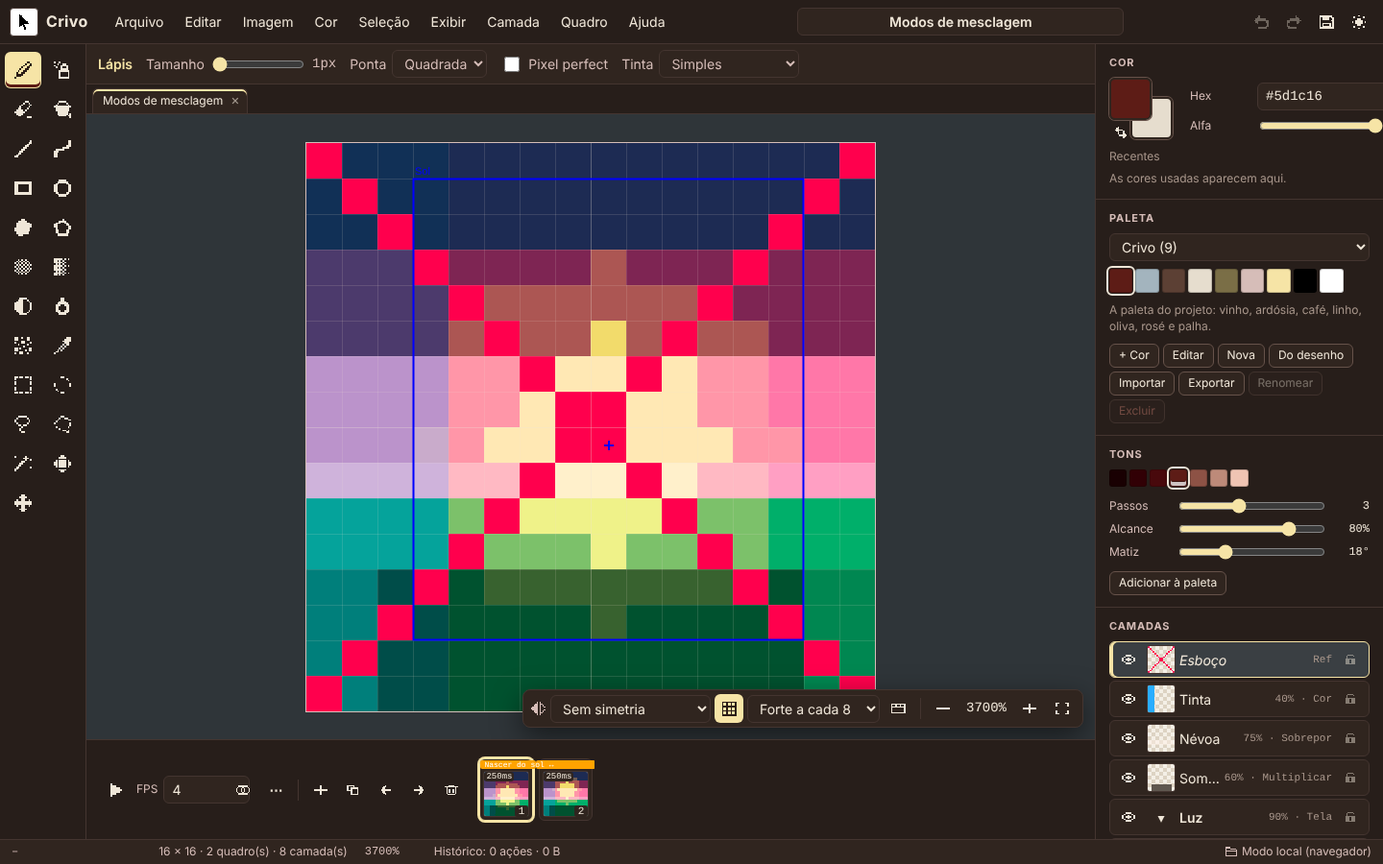
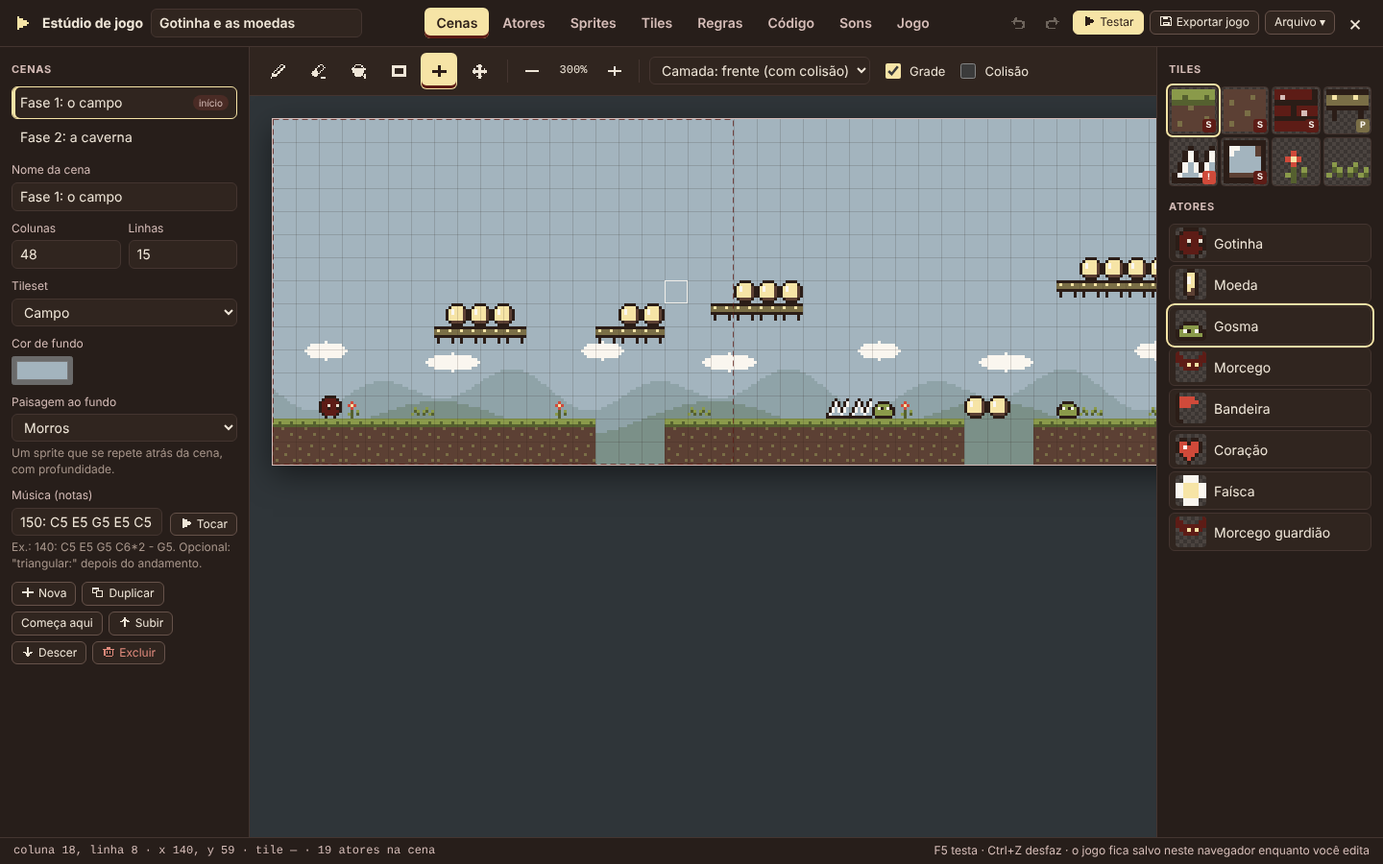
Portfólio 1.40.0

diff --git a/js/destaques.js b/js/destaques.js
@@ -1,34 +1,36 @@
 const DESTAQUES = [
 	{
 		titulo: "Crivo",
-		versao: "2.2.0",
-		frase: "Um editor de pixel art que trata a imagem como ela é: uma matriz de pixels RGBA.",
+		versao: "2.4.0",
+		frase: "Um editor de pixel art que trata a imagem como ela é, uma matriz de pixels RGBA, com um estúdio de jogos 2D embutido.",
 		online: "https://ravelroot.github.io/Pixel-Art-Matrix-Editor/",
 		endereco: "ravelroot.github.io/Pixel-Art-Matrix-Editor",
 		capa: {
-			claro: "assets/destaques/crivo/camadas-grupos.webp",
+			claro: "assets/destaques/crivo/jogo-cena.webp",
 			escuro: "assets/destaques/crivo/escuro.webp",
-			legenda: "O exemplo Modos de mesclagem: um nascer do sol em 16 × 16 com um grupo, camadas em multiplicar, tela e sobrepor e uma camada de referência, que aparece no editor e fica fora das exportações."
+			legenda: "O Estúdio de jogo com o exemplo Gotinha e as moedas: a fase 1 montada com tiles de 8 × 8 sobre morros em parallax, a moldura tracejada do tamanho da tela e os atores prontos para entrar na cena."
 		},
 		numeros: [
 			{ valor: "23", rotulo: "ferramentas de desenho" },
-			{ valor: "19", rotulo: "modos de mistura" },
-			{ valor: "263", rotulo: "testes, todos passando" },
-			{ valor: "3", rotulo: "linguagens, os mesmos pixels" }
+			{ valor: "12", rotulo: "comportamentos de jogo prontos" },
+			{ valor: "301", rotulo: "testes, todos passando" },
+			{ valor: "3", rotulo: "linguagens de código no motor" }
 		],
 		historia: [
 			"A premissa do Crivo é que o editor mostre exatamente o que o jogo vai receber. A imagem não é tratada como uma pintura, e sim como o que ela é: uma matriz de pixels RGBA, em que cada traço altera números que podem sair do editor como PNG, GIF, sprite sheet ou código-fonte em JSON, CSV, JavaScript, Python, C e Java.",
-			"Em volta dessa matriz está um editor completo: 23 ferramentas, seleção por retângulo, elipse, laço e varinha mágica, camadas em grupos com 19 modos de mistura, animação quadro a quadro com tags e cels vinculados, tilemaps, slices e arquivos .ase com camadas. As paletas clássicas já vêm prontas: Game Boy, NES, Pico-8, CGA, Commodore 64 e 1 bit.",
-			"E ele roda onde for mais prático: como Crivo.exe no Windows, sem instalar nada; como servidor Django com PostgreSQL, API e histórico de versões; ou num único Crivo.html que abre com dois cliques, sem internet. A mesma versão está publicada no GitHub Pages."
+			"Em volta dessa matriz está um editor completo: 23 ferramentas, seleção por retângulo, elipse, laço e varinha mágica, camadas em grupos com 19 modos de mistura, animação quadro a quadro com tags e cels vinculados, tilemaps, slices e arquivos .ase com camadas. As paletas clássicas já vêm prontas (Game Boy, NES, Pico-8, CGA, Commodore 64 e 1 bit), e um caderno folheia os projetos página por página.",
+			"Desde a 2.4.0, os mesmos pixels viram jogo: o Estúdio de jogo monta fases com tiles, atores com 12 comportamentos prontos ou com eventos no estilo do GameMaker, regras, sons de 8 bits e código em Crivo Script, C++ ou Lua, com tiles de 8 a 1024 px. O jogo sai numa única página HTML, e o Crivo roda como Crivo.exe no Windows, como servidor Django com PostgreSQL ou num Crivo.html que abre sem internet."
 		],
 		pilha: [
 			{ nome: "Editor", itens: ["JavaScript", "Canvas 2D", "HTML5", "CSS3"] },
+			{ nome: "Motor de jogo", itens: ["Web Audio API", "Gamepad API", "Interpretador próprio", "CSP com SHA-256"] },
 			{ nome: "Servidor e API", itens: ["Python 3.13", "Django 6.1", "Gunicorn", "PostgreSQL 17", "SQLite"] },
 			{ nome: "Desktop e linha de comando", itens: ["Go 1.24", "WebView2", "Java 21"] },
 			{ nome: "Qualidade e entrega", itens: ["Node Test Runner", "Playwright", "Ruff", "Bandit", "Docker", "GitHub Actions"] }
 		],
 		galeria: [
 			{ imagem: "assets/destaques/crivo/editor.webp", miniatura: "assets/destaques/crivo/mini/editor.webp", legenda: "A poção de exemplo aberta: três camadas, quatro quadros na linha do tempo e a paleta Crivo ao lado." },
+			{ imagem: "assets/destaques/crivo/camadas-grupos.webp", miniatura: "assets/destaques/crivo/mini/camadas-grupos.webp", legenda: "O exemplo Modos de mesclagem: um nascer do sol em 16 × 16 com um grupo, camadas em multiplicar, tela e sobrepor e uma camada de referência, que aparece no editor e fica fora das exportações." },
 			{ imagem: "assets/destaques/crivo/pontilhado.webp", miniatura: "assets/destaques/crivo/mini/pontilhado.webp", legenda: "Céu feito com o degradê pontilhado de Bayer e nuvens com o pincel de pontilhado. O padrão é fixo na matriz, então traços vizinhos se encaixam sem emendas." },
 			{ imagem: "assets/destaques/crivo/simetria.webp", miniatura: "assets/destaques/crivo/mini/simetria.webp", legenda: "Simetria horizontal e vertical: cada traço vira quatro, com os dois eixos tracejados na tela." },
 			{ imagem: "assets/destaques/crivo/ladrilho.webp", miniatura: "assets/destaques/crivo/mini/ladrilho.webp", legenda: "Modo ladrilho, no tema escuro: o tile de tijolos repetido 3 × 3 para conferir as emendas da textura." },
@@ -36,7 +38,12 @@ const DESTAQUES = [
 			{ imagem: "assets/destaques/crivo/editor-paleta.webp", miniatura: "assets/destaques/crivo/mini/editor-paleta.webp", legenda: "Editor de paleta com seletor HSV, rampa entre duas cores e ordenação por matiz, luminosidade ou saturação." },
 			{ imagem: "assets/destaques/crivo/exportar-dados.webp", miniatura: "assets/destaques/crivo/mini/exportar-dados.webp", legenda: "A matriz exportada como dado: o índice da paleta de cada pixel, pronto para entrar no código do jogo." },
 			{ imagem: "assets/destaques/crivo/sprite-sheet.webp", miniatura: "assets/destaques/crivo/mini/sprite-sheet.webp", legenda: "Sprite sheet dos quatro quadros, com o JSON das posições no formato que Phaser, PixiJS e Godot leem." },
-			{ imagem: "assets/destaques/crivo/abas.webp", miniatura: "assets/destaques/crivo/mini/abas.webp", legenda: "Vários projetos abertos em abas e a janela de pré-visualização (F7), com a própria reprodução." }
+			{ imagem: "assets/destaques/crivo/abas.webp", miniatura: "assets/destaques/crivo/mini/abas.webp", legenda: "Vários projetos abertos em abas e a janela de pré-visualização (F7), com a própria reprodução." },
+			{ imagem: "assets/destaques/crivo/caderno.webp", miniatura: "assets/destaques/crivo/mini/caderno.webp", legenda: "O caderno (F8) com os projetos abertos: uma pixel art por página, em tamanho inteiro, com nome, tamanho e quadros, e as folhas virando em 3D." },
+			{ imagem: "assets/destaques/crivo/jogo-terminal.webp", miniatura: "assets/destaques/crivo/mini/jogo-terminal.webp", legenda: "O jogo rodando com a depuração (F3): pelo terminal (F4), os pontos foram para 99 e surgiram moedas novas, e a regra das 20 moedas deu uma vida extra." },
+			{ imagem: "assets/destaques/crivo/jogo-eventos.webp", miniatura: "assets/destaques/crivo/mini/jogo-eventos.webp", legenda: "Eventos no estilo do GameMaker: o Morcego guardião é um objeto livre, sem comportamento pronto. Um alarme o faz voar até o jogador, e duas faíscas o derrubam." },
+			{ imagem: "assets/destaques/crivo/jogo-codigo.webp", miniatura: "assets/destaques/crivo/mini/jogo-codigo.webp", legenda: "Um script em C++ e o terminal em Lua: a função chuva_de_moedas, escrita em Lua, chama bonus_por_vida, escrita em C++." },
+			{ imagem: "assets/destaques/crivo/jogo-sons.webp", miniatura: "assets/destaques/crivo/mini/jogo-sons.webp", legenda: "Sons de 8 bits sintetizados na hora, sem arquivos de áudio: cinco ondas, sete modelos prontos, botão Aleatório e o desenho da onda." }
 		],
 		porDentro: [
 			{
@@ -63,6 +70,15 @@ const DESTAQUES = [
 			{
 				titulo: "Mesmos pixels em três linguagens",
 				texto: "O editor (JavaScript), o servidor (Python) e a linha de comando (Java) compõem grupos e os 19 modos de mistura cada um do seu lado. Um teste de paridade monta 30 documentos aleatórios e exige os mesmos pixels nos três."
+			},
+			{
+				titulo: "Física em passos fixos",
+				texto: "O jogo avança em passos de 1/60 s, com um acumulador que absorve a variação do monitor: o mesmo pulo tem a mesma altura a 60 ou a 144 Hz. Cada movimento anda em fatias menores que um tile, então nada atravessa parede, e a plataforma de mão única só segura quem vem de cima. O pulo ainda perdoa: 100 ms de coyote time depois da borda e 120 ms de buffer para o botão apertado antes de tocar o chão."
+			},
+			{
+				titulo: "Três linguagens, um interpretador",
+				texto: "Crivo Script, C++ e Lua têm cada uma o seu leitor e o seu analisador, mas viram a mesma árvore e rodam no mesmo interpretador, escrito à mão e sem eval, o que mantém a Content-Security-Policy do editor e do jogo exportado. Uma função em Lua chama outra escrita em C++, laços sem fim param em 200 mil passos e a recursão em 64 níveis, sempre com o erro na linha certa.",
+				codigo: "C++   │ int bonus(int v) { return v * 10; }\nLua   │ function chuva(n) return bonus(n) end\nCrivo │ chuva(3)   → 30"
 			}
 		],
 		arquitetura: [
@@ -70,6 +86,10 @@ const DESTAQUES = [
 			"  └─► Crivo.html embutido · janela Salvar como nativa · F11",
 			"",
 			"Navegador  (JavaScript + Canvas 2D)",
+			"  ├─► Estúdio de jogo ........... .crivojogo",
+			"  │     ├─► física em passos de 1/60 s · som em Web Audio",
+			"  │     ├─► Crivo Script · C++ · Lua ─► um interpretador",
+			"  │     └─► jogo exportado em .html, com CSP própria",
 			"  ├─► IndexedDB ................. sem servidor",
 			"  └─► HTTP/JSON + CSRF",
 			"        └─► Django 6.1 + Gunicorn",
@@ -80,10 +100,11 @@ const DESTAQUES = [
 			"  └─► lê .crivo ─► PNG · sprite sheet · classe Java"
 		].join("\n"),
 		testes: [
-			{ suite: "Núcleo JavaScript", detalhe: "Geometria, flood fill, RLE, histórico, GIF, .ase e APNG de ida e volta", resultado: "107 de 107" },
+			{ suite: "Núcleo JavaScript", detalhe: "Geometria, flood fill, RLE, histórico, GIF, .ase, APNG, motor de jogo e as três linguagens", resultado: "135 de 135" },
 			{ suite: "API Django", detalhe: "Revisões, conflitos, exportação e o conjunto de segurança", resultado: "72 de 72" },
 			{ suite: "Ferramenta Java", detalhe: "Leitura do .crivo, PNG, sprite sheet e classe compilada em memória", resultado: "36 de 36" },
-			{ suite: "Interface no Chromium", detalhe: "Playwright contra o Django e o Crivo.html direto do disco", resultado: "48 de 48" },
+			{ suite: "Interface no Chromium", detalhe: "Playwright contra o Django e o Crivo.html direto do disco, com o estúdio de jogo", resultado: "58 de 58" },
+			{ suite: "Jogo exportado", detalhe: "A página .html aberta e jogada no Chromium, com a própria CSP e sem acesso à rede", resultado: "0 erros" },
 			{ suite: "Paridade de composição", detalhe: "30 documentos aleatórios em JavaScript, Python e Java", resultado: "Mesmos pixels" },
 			{ suite: "Ruff e Bandit", detalhe: "Estilo, bugs prováveis e padrões inseguros no Python", resultado: "0 problemas" },
 			{ suite: "Crivo.exe gerado de novo", detalhe: "Build reproduzível, comparado com o do repositório", resultado: "Idêntico" }

diff --git a/index.html b/index.html
@@ -7,14 +7,14 @@
 	<meta name="description" content="Erik Pimenta, Engenheiro de Software no Rio de Janeiro. Sistemas completos, do banco de dados à interface, sem me prender a uma linguagem ou stack, com testes, manual técnico e código aberto.">
 	<meta name="author" content="Erik Pimenta">
 	<meta name="theme-color" content="#0c0a09">
-	<link rel="canonical" href="https://ravel-os.github.io/">
+	<link rel="canonical" href="https://ravelroot.github.io/">
 	<meta property="og:type" content="profile">
 	<meta property="og:locale" content="pt_BR">
 	<meta property="og:site_name" content="Erik Pimenta">
-	<meta property="og:url" content="https://ravel-os.github.io/">
+	<meta property="og:url" content="https://ravelroot.github.io/">
 	<meta property="og:title" content="Erik Pimenta | Engenheiro de Software">
 	<meta property="og:description" content="Sistemas completos, do banco de dados à interface, sem me prender a uma linguagem ou stack, com testes, manual técnico e código aberto.">
-	<meta property="og:image" content="https://ravel-os.github.io/assets/compartilhar.png">
+	<meta property="og:image" content="https://ravelroot.github.io/assets/compartilhar.png">
 	<meta property="og:image:width" content="1200">
 	<meta property="og:image:height" content="630">
 	<meta property="og:image:alt" content="Erik Pimenta, Engenheiro de Software, com um terminal listando as áreas em que atua">
@@ -23,7 +23,7 @@
 	<meta name="twitter:card" content="summary_large_image">
 	<meta name="twitter:title" content="Erik Pimenta | Engenheiro de Software">
 	<meta name="twitter:description" content="Sistemas completos, do banco de dados à interface, com testes, manual técnico e código aberto.">
-	<meta name="twitter:image" content="https://ravel-os.github.io/assets/compartilhar.png">
+	<meta name="twitter:image" content="https://ravelroot.github.io/assets/compartilhar.png">
 	<link rel="icon" type="image/png" href="assets/favicon.png?v=2">
 	<link rel="preconnect" href="https://fonts.googleapis.com">
 	<link rel="preconnect" href="https://fonts.gstatic.com" crossorigin>
@@ -41,8 +41,8 @@
 		"name": "Erik Pimenta",
 		"alternateName": "ravelroot",
 		"jobTitle": "Engenheiro de Software",
-		"url": "https://ravel-os.github.io/",
-		"image": "https://ravel-os.github.io/assets/compartilhar.png",
+		"url": "https://ravelroot.github.io/",
+		"image": "https://ravelroot.github.io/assets/compartilhar.png",
 		"sameAs": ["https://github.com/ravelroot"],
 		"address": { "@type": "PostalAddress", "addressLocality": "Rio de Janeiro", "addressCountry": "BR" },
 		"knowsAbout": ["Java", "Spring Boot", "Python", "Django", "FastAPI", "C#", ".NET", "JavaScript", "TypeScript", "React", "PostgreSQL", "Docker", "Microsserviços", "Sistemas distribuídos", "RAG"]
@@ -124,7 +124,7 @@
 						<p class="terminal-titulo">root@ravel:~$</p>
 					</div>
 					<div class="terminal-corpo">
-						<p class="linha">Ravel OS [Version 1.39.0]</p>
+						<p class="linha">Ravel OS [Version 1.40.0]</p>
 						<p class="linha">(c) Erik Pimenta. All rights reserved.</p>
 						<p class="linha linha-comando"><span class="caminho">$</span>ravel --info</p>
 						<p class="linha">Confiabilidade, escalabilidade e qualidade de produção.</p>
@@ -150,7 +150,7 @@
 				</div>
 
 				<div id="painel-destaques" class="painel" role="tabpanel" aria-labelledby="aba-destaques">
-					<p class="secao-descricao">Os seis projetos mais completos do portfólio, em detalhe: o Crivo e o Grafo, editores visuais escritos do zero que rodam no navegador, no Windows e em servidor; o Nexo, uma plataforma de agentes de IA que respondem citando a fonte; o Talos, central de serviços e inventário de TI para desktop; o Bento, um painel administrativo com tempo real; e o Turno, um motor de tarefas distribuídas em que vários workers dividem a mesma fila. Abaixo, as telas, as decisões de engenharia e os números dos testes de cada um.</p>
+					<p class="secao-descricao">Os seis projetos mais completos do portfólio, em detalhe: o Crivo, de pixel art e jogos 2D, e o Grafo, de design e diagramas, editores escritos do zero que rodam no navegador, no Windows e em servidor; o Nexo, uma plataforma de agentes de IA que respondem citando a fonte; o Talos, central de serviços e inventário de TI para desktop; o Bento, um painel administrativo com tempo real; e o Turno, um motor de tarefas distribuídas em que vários workers dividem a mesma fila. Abaixo, as telas, as decisões de engenharia e os números dos testes de cada um.</p>
 					<div id="destaques" class="destaques"></div>
 				</div>
 
@@ -280,12 +280,12 @@
 		<p id="aviso" class="so-leitor" role="status" aria-live="polite"></p>
 	</div>
 
-	<script src="js/projetos.js?v=20"></script>
+	<script src="js/projetos.js?v=21"></script>
 	<script src="js/habilidades.js?v=5"></script>
 	<script src="js/documentacao.js?v=8"></script>
 	<script src="js/atividade.js?v=8"></script>
 	<script src="js/notas.js?v=5"></script>
-	<script src="js/destaques.js?v=4"></script>
+	<script src="js/destaques.js?v=5"></script>
 	<script src="js/contato.js?v=1"></script>
 	<script src="js/main.js?v=19"></script>
 </body>

diff --git a/js/projetos.js b/js/projetos.js
@@ -68,11 +68,11 @@ const PROJETOS = [
 	},
 	{
 		titulo: "Crivo",
-		categoria: "Editor de pixel art",
+		categoria: "Pixel art e jogos 2D",
 		icone: "assets/projetos/crivo.png",
-		descricao: "Crivo é um editor de pixel art no navegador em JavaScript puro: matriz RGBA via ImageData, balde por varredura, Bresenham e elipse de ponto médio, camadas, animação, simetria e histórico ilimitado com diffs e RLE. Paletas Game Boy, NES, Pico-8 e CGA, tons em OKLCH, PNG, sprite sheet e matrizes JSON/CSV/JS/Python. API Django e CLI Java.",
+		descricao: "Crivo é um editor de pixel art e engine de jogos 2D no navegador, em JavaScript puro. Matriz RGBA, camadas com modos de mistura, animação, histórico ilimitado e exportação para PNG, GIF, .ase e sprite sheets. Estúdio de jogo com cenas, atores, eventos, física e scripting em C++, Lua e Crivo Script, exportado em HTML. Desktop, API Django e CLI Java.",
 		link: "https://github.com/ravelroot/Pixel-Art-Matrix-Editor",
-		tecnologias: ["Javascript", "Canvas 2D", "Python", "Django", "PostgreSQL", "Java", "Docker"]
+		tecnologias: ["Javascript", "Canvas 2D", "Web Audio", "Python", "Django", "PostgreSQL", "Java", "Docker"]
 	},
 	{
 		titulo: "Lume",

diff --git a/js/main.js b/js/main.js
@@ -1122,7 +1122,7 @@ function alternarAbas() {
 	} catch (erro) {}
 	marcarBordasDasAbas(lista);
 
-	// Um link com o nome da aba (por exemplo, ravel-os.github.io/#contato) abre direto nela.
+	// Um link com o nome da aba (por exemplo, ravelroot.github.io/#contato) abre direto nela.
 	// O endereço volta ao normal em seguida, para a próxima visita abrir em Destaques.
 	const abrirPeloEndereco = () => {
 		const pedida = document.getElementById(`aba-${decodeURIComponent(location.hash.slice(1))}`);

diff --git a/js/atividade.js b/js/atividade.js
@@ -17,7 +17,7 @@ const ATIVIDADE = {
 	anoInicial: 2016,
 	reposRecentes: 5,
 	linguagensVisiveis: 8,
-	reposOcultos: ["ravelroot.github.io", "ravel-os.github.io", "ravelroot"]
+	reposOcultos: ["ravelroot.github.io", "ravelroot"]
 };
 
 const API_GITHUB = "https://api.github.com";

diff --git a/README.md b/README.md
@@ -14,7 +14,7 @@ HTML5 · CSS3 · JavaScript (ES6+) · API do GitHub · Responsivo · Zero depend
 </p>
 
 <p align="center">
-  <a href="https://ravel-os.github.io"><b>ravel-os.github.io</b></a>
+  <a href="https://ravelroot.github.io"><b>ravelroot.github.io</b></a>
 </p>
 
 ---
@@ -26,7 +26,7 @@ HTML5 · CSS3 · JavaScript (ES6+) · API do GitHub · Responsivo · Zero depend
 <p align="center"><b>Aba Destaques</b></p>
 
 <p align="center">
-  <img src="assets/preview-portfolio-destaques.png?v=5" alt="Prévia da aba Destaques: atalhos dos seis projetos, cabeçalho do Crivo e a tela principal numa janela">
+  <img src="assets/preview-portfolio-destaques.png?v=6" alt="Prévia da aba Destaques: atalhos dos seis projetos, cabeçalho do Crivo e a tela principal numa janela">
 </p>
 
 <p align="center"><b>Tema claro, na aba Habilidades</b></p>
@@ -52,10 +52,10 @@ HTML5 · CSS3 · JavaScript (ES6+) · API do GitHub · Responsivo · Zero depend
 - **Topo fixo** com o ícone de computador e o nome **ravel** digitado letra por letra e cursor piscando (um clique volta ao início), que ganha fundo desfocado ao rolar a página. À direita ficam o atalho para o **GitHub**, o botão **Contato**, que abre a aba Contato de qualquer ponto da página, e o botão de tema.
 - **Tema claro e escuro**: o botão redondo no canto superior direito (☀ sol / ☾ lua) troca a página entre o tema escuro (padrão) e o claro, inspirado em **desenho técnico de engenharia**: fundo de papel com quadriculado bem fraco, texto e destaques em grafite, a mesma linguagem dos diagramas dos PDFs. A paleta é Papel `#E8ECEA` (fundo, etiquetas e barra do terminal), Folha `#F6F8F7` (cartões e corpo do terminal), Linha `#B9C4C2` (bordas), Ardósia `#46535A` (textos de apoio, abas fechadas e botões ao passar o mouse) e Grafite `#20282D` (títulos, textos, botões, aba aberta, cursor do título, prompt do terminal, quadriculado, traço dos diagramas na aba Documentação). Os três botões coloridos do terminal continuam como no tema escuro. O tema escuro usa o mesmo quadriculado de engenharia no fundo, em linhas brancas bem fracas. A escolha fica salva no navegador e volta na próxima visita, sem piscar o tema errado ao carregar.
 - **Apresentação** pensada para quem está contratando: o selo **Disponível para novas oportunidades** (com um pulso curto no ponto verde ao carregar), o nome em tamanho grande, o cargo (*Engenheiro de Software*), um parágrafo sobre o que eu construo, os botões **Ver projetos** e **Entrar em contato** e, embaixo, o GitHub, o e-mail (um clique copia o endereço e o botão mostra *E-mail copiado*) e a localização.
-- **Terminal `root@ravel:~$`** com o `ravel --info` do Ravel OS: o que priorizo e as áreas em que atuo, com base nos meus projetos. A primeira linha mostra a versão atual do portfólio (*Ravel OS [Version 1.39.0]*), a mesma do arquivo `VERSION`.
+- **Terminal `root@ravel:~$`** com o `ravel --info` do Ravel OS: o que priorizo e as áreas em que atuo, com base nos meus projetos. A primeira linha mostra a versão atual do portfólio (*Ravel OS [Version 1.40.0]*), a mesma do arquivo `VERSION`.
 - **Sete abas: Destaques, Projetos, Habilidades, Atividade, Notas, Documentação e Contato**: as seções ficam em abas separadas na mesma página, com sublinhado animado na aba ativa. Ao rolar a página, a fileira de abas **fica presa logo abaixo do topo**, com o mesmo fundo desfocado, e trocar de aba lá embaixo leva ao começo da nova aba. Dá para trocar com o mouse ou pelas setas do teclado, e a página sempre abre na aba Destaques, a não ser que o link já aponte para outra: `ravelroot.github.io/#contato`, `#destaques`, `#habilidades` e assim por diante abrem direto na aba (o endereço volta ao normal em seguida). No celular, a fileira de abas rola para o lado, a aba ativa sempre fica à vista e a borda some aos poucos do lado em que ainda há abas.
   - **Projetos** em cartões com **vitrine no estilo do terminal**: o caminho do repositório no GitHub, a linguagem principal e o ícone do projeto em tamanho grande sobre um pontilhado. Abaixo vêm a categoria em destaque (por exemplo, *Pagamentos e checkout*), o nome, a descrição, as etiquetas de tecnologias e os botões **Código no GitHub** (repositório) e **Manual técnico** (PDF, nos projetos que têm). São meus principais repositórios públicos, de pagamentos e microsserviços a um banco de dados em C++. Os projetos que também estão na aba Destaques (Crivo, Grafo, Nexo, Talos, Bento e Turno) trazem, ao lado da categoria, a etiqueta **Estudo de caso**, que leva direto ao projeto lá; o Crivo e o Grafo, que têm versão no navegador, abrem também com o botão **Abrir demo**. Acima da grade ficam os **filtros por linguagem** (Todos, Python, TypeScript, JavaScript, Java, C#, C++, Go, C e Rust, com o número de projetos em cada um), montados sozinhos a partir das tecnologias; ao filtrar, a etiqueta da linguagem escolhida fica realçada em cada cartão e o contador mostra quantos projetos aparecem. Os cartões **entram um a um** quando surgem na tela (e de novo a cada filtro). Ao passar o mouse, uma luz suave acompanha o cursor, o pontilhado se acende em volta dele, o ícone ganha um leve brilho, e um cursor pisca ao lado do repositório; o cartão não cresce, para o texto continuar nítido. Tudo respeita `prefers-reduced-motion`.
-  - **Destaques**: o **Crivo**, o **Grafo**, o **Nexo**, o **Talos**, o **Bento** e o **Turno** apresentados em detalhe, um depois do outro. No topo, um atalho para cada um (ícone, categoria e versão) rola até ele, em três colunas no computador e duas no tablet (quando sobra um, ele ocupa a fileira inteira). Cada projeto abre com a posição (*Destaque 01 / 06*), a categoria, a versão, o nome em tamanho grande, uma frase que resume o projeto e os botões **Abrir no navegador** (no Crivo e no Grafo, que têm versão no GitHub Pages), **Código no GitHub**, **Manual técnico** e **Arquitetura do BD** (quando o projeto tem o PDF do banco). Depois vêm: a **tela principal numa janela** com a barra do terminal e o endereço do projeto (a versão online, o servidor local ou o instalador do Windows), que **acompanha o tema da página** (tela escura no tema escuro, clara no claro); **quatro números** (por exemplo, *263 testes, todos passando*, *37 KB de núcleo em WebAssembly* e *600 mil iterações de PBKDF2 por senha*); **A ideia**, em três parágrafos, ao lado das **tecnologias** agrupadas; uma **galeria** com legenda (nove telas por projeto, cinco no Turno); **Por dentro**, com seis decisões de engenharia numeradas (algumas com um trecho no estilo do terminal, como o RLE do Crivo, os cortes de relevância do Nexo, a matriz de prioridade do Talos, o LISTEN/NOTIFY do Bento e o token de despacho do Turno); a **arquitetura** desenhada num terminal; e a tabela de **testes e verificações** com os resultados da última rodada de cada projeto. Um clique na tela principal ou em qualquer foto abre o **visualizador**: a imagem quase em tela cheia, com legenda, posição (*04 / 10*), botões e setas do teclado para passar (ele dá a volta no fim), deslize no celular, Esc ou clique fora para fechar e o foco de volta na foto. A aba termina com **Seis projetos, as mesmas regras** (começam com dois cliques, testados a cada push, fechados por padrão e feitos para quem chega), a contagem dos projetos que ficaram de fora e um botão que volta para a aba Projetos. O Bento, que não está na aba Documentação, leva os PDFs no próprio destaque. Os blocos sobem e aparecem conforme a página rola, e tudo respeita `prefers-reduced-motion`.
+  - **Destaques**: o **Crivo**, o **Grafo**, o **Nexo**, o **Talos**, o **Bento** e o **Turno** apresentados em detalhe, um depois do outro. No topo, um atalho para cada um (ícone, categoria e versão) rola até ele, em três colunas no computador e duas no tablet (quando sobra um, ele ocupa a fileira inteira). Cada projeto abre com a posição (*Destaque 01 / 06*), a categoria, a versão, o nome em tamanho grande, uma frase que resume o projeto e os botões **Abrir no navegador** (no Crivo e no Grafo, que têm versão no GitHub Pages), **Código no GitHub**, **Manual técnico** e **Arquitetura do BD** (quando o projeto tem o PDF do banco). Depois vêm: a **tela principal numa janela** com a barra do terminal e o endereço do projeto (a versão online, o servidor local ou o instalador do Windows), que **acompanha o tema da página** (tela escura no tema escuro, clara no claro); **quatro números** (por exemplo, *301 testes, todos passando*, *37 KB de núcleo em WebAssembly* e *600 mil iterações de PBKDF2 por senha*); **A ideia**, em três parágrafos, ao lado das **tecnologias** agrupadas; uma **galeria** com legenda (nove telas por projeto, quinze no Crivo e cinco no Turno); **Por dentro**, com as decisões de engenharia numeradas (seis por projeto, oito no Crivo) (algumas com um trecho no estilo do terminal, como o RLE do Crivo, os cortes de relevância do Nexo, a matriz de prioridade do Talos, o LISTEN/NOTIFY do Bento e o token de despacho do Turno); a **arquitetura** desenhada num terminal; e a tabela de **testes e verificações** com os resultados da última rodada de cada projeto. Um clique na tela principal ou em qualquer foto abre o **visualizador**: a imagem quase em tela cheia, com legenda, posição (*04 / 10*), botões e setas do teclado para passar (ele dá a volta no fim), deslize no celular, Esc ou clique fora para fechar e o foco de volta na foto. A aba termina com **Seis projetos, as mesmas regras** (começam com dois cliques, testados a cada push, fechados por padrão e feitos para quem chega), a contagem dos projetos que ficaram de fora e um botão que volta para a aba Projetos. O Bento, que não está na aba Documentação, leva os PDFs no próprio destaque. Os blocos sobem e aparecem conforme a página rola, e tudo respeita `prefers-reduced-motion`.
   - **Habilidades** organizadas por área (Front-end, Back-end, Bancos de Dados, IA & LLMs e Ferramentas), em cartões com um ícone para cada área, o número de itens e etiquetas agrupadas. IA & LLMs se divide em Arquitetura RAG e Modelos e protocolos; Ferramentas, em DevOps e infraestrutura, APIs, Desenvolvimento e Produtividade. Qualquer etiqueta se destaca ao passar o mouse (borda e texto acesos, com o cursor de clique), sem levar a outra aba. Acima dos cartões, os botões **Todas** e **Usadas nos projetos** deixam as demais etiquetas apagadas. Os cartões entram um a um ao aparecer na tela, as etiquetas acendem em cascata e uma luz suave acompanha o mouse.
   - **Notas**: textos curtos sobre as decisões técnicas por trás dos projetos (o problema, a escolha feita e o que ela custa), em **duas colunas** no computador e uma no celular. Cada cartão abre com uma vitrine no estilo do terminal, com o bloco de código da própria nota (ou uma frase dela, quando a nota não tem código), seguida do tema em destaque, do tempo de leitura (calculado pelo número de palavras), do título, de um resumo e das etiquetas dos projetos citados, com ícone e link para o repositório. Ao passar o mouse, uma luz suave acompanha o cursor, o código sobe um pouco e a seta do botão avança. Quando o número de notas é ímpar, a última ocupa a fileira inteira, com a vitrine ao lado do texto. O botão **Ler nota** (ou um clique na vitrine) abre a nota inteira num painel por cima da página, com a posição dela no topo (por exemplo, 07 / 08), com blocos de código quando ajudam a explicar e os botões **Anterior** e **Próxima** para seguir lendo. O painel fecha no X, com Esc ou com um clique fora dele, e o foco volta ao cartão da última nota lida. As notas atuais: *Fila não é banco de dados* (Turno e Delco), *Dinheiro é inteiro* (Doca), *Concorrência otimista com número de revisão* (Crivo), *Índice invertido: buscar sem LIKE* (Sonda), *RAG: a resposta depende da busca* (Nexo), *Um banco por serviço* (Argo), *Embaralhar sem viés* (Grimório) e *Boundary tags: liberar memória em O(1)* (Favo).
   - **Documentação**: um cartão por projeto com a miniatura do diagrama do banco (tirada do próprio PDF, em traço branco no tema escuro e grafite no claro), a decisão de arquitetura que mais pesou, etiquetas com os números principais e botões que abrem o **Manual técnico** e a **Arquitetura do BD** em PDF no GitHub. A miniatura também abre o PDF. O Talos, que ainda não tem o PDF do banco, mostra o diagrama de relacionamentos da área de atendimento (as tabelas em volta de `pyh_ticket`), desenhado a partir do diagrama Mermaid de `docs/banco-de-dados.md` do próprio repositório.
@@ -80,7 +80,7 @@ HTML5 · CSS3 · JavaScript (ES6+) · API do GitHub · Responsivo · Zero depend
 | [**Sonda**](https://github.com/ravelroot/Inverted-Index-Search-Engine) | Sonda é um motor de busca de texto completo escrito do zero em C# e .NET 10, no estilo Lucene e Elasticsearch. Indexa pastas de .txt, .md e .html em paralelo com TPL e ConcurrentDictionary, aplica tokenização e stemming RSLP e Porter, grava um índice invertido binário via FileStream e ordena por BM25 ou TF-IDF, com painel web, API e CLI. | C# · .NET 10 · ASP.NET Core · Task Parallel Library · Brotli · xUnit · Docker |
 | [**Argo**](https://github.com/ravelroot/E-commerce-Microservices-Platform) | Argo é uma plataforma de microserviços para vendas com vários vendedores, feita em Django: estoque em tempo real (Redis + SSE), checkout assíncrono com Celery, notas fiscais por um serviço em Java (Spring Boot), banco MySQL, gateway Nginx e Docker Compose. Pronta para usar, com manual e PDF do banco de dados. | Python 3.13 · Django 6 · Django REST Framework · Celery · Redis · MySQL · Java 21 · Spring Boot 4 · Nginx · Docker |
 | [**Delco**](https://github.com/ravelroot/Workflow-Orchestration-Engine) | Delco é um motor de orquestração de workflows em Python e Django, no estilo Airflow/Temporal: pipelines como código, agendamento cron, worker pool em Redis Streams, retentativas e retomada exata após quedas. API em Django REST Framework, painel em tempo real com Django Channels, MySQL, Docker e Pytest. | Python 3.13 · Django 6 · Django REST Framework · Channels · MySQL · Redis Streams · Docker |
-| [**Crivo**](https://github.com/ravelroot/Pixel-Art-Matrix-Editor) | Crivo é um editor de pixel art no navegador em JavaScript puro: matriz RGBA via ImageData, balde por varredura, Bresenham e elipse de ponto médio, camadas, animação, simetria e histórico ilimitado com diffs e RLE. Paletas Game Boy, NES, Pico-8 e CGA, tons em OKLCH, PNG, sprite sheet e matrizes JSON/CSV/JS/Python. API Django e CLI Java. | JavaScript · Canvas 2D · Python 3.13 · Django 6.1 · PostgreSQL 17 · Java 21 · Docker |
+| [**Crivo**](https://github.com/ravelroot/Pixel-Art-Matrix-Editor) | Crivo é um editor de pixel art e engine de jogos 2D no navegador, em JavaScript puro. Matriz RGBA, camadas com modos de mistura, animação, histórico ilimitado e exportação para PNG, GIF, .ase e sprite sheets. Estúdio de jogo com cenas, atores, eventos, física e scripting em C++, Lua e Crivo Script, exportado em HTML. Desktop, API Django e CLI Java. | JavaScript · Canvas 2D · Web Audio · Python 3.13 · Django 6.1 · PostgreSQL 17 · Java 21 · Go + WebView2 · Docker |
 | [**Lume**](https://github.com/ravelroot/Document-Library-Desktop) | Lume é uma biblioteca de PDFs e DOCX em Java 21 + Spring Boot 4, com capas automáticas (PDFBox), descrição por IA, leitor próprio, estantes, coleções e busca em texto completo (SQLite FTS5). Um único Lume.exe portátil, com o Java embutido. | Java 21 · Spring Boot 4 · SQLite + FTS5 · Apache PDFBox · pdf.js · Playwright |
 | [**Grafo**](https://github.com/ravelroot/Collaborative-Design-and-Diagram-Editor) | Grafo é um editor colaborativo de design e diagramas no navegador, em JavaScript com PixiJS (WebGL2 e WebGPU) e núcleo geométrico em C++ compilado para WebAssembly. Frames, auto layout, componentes, fluxogramas, UML, ER e BPMN, protótipo clicável e edição em tempo real com Yjs, servidor em Rust, PostgreSQL, Redis e NATS. | JavaScript · PixiJS 8 · C++17 → WebAssembly · Rust (Axum + Tokio) · Yjs/Yrs · PostgreSQL 17 · Redis 7 · NATS JetStream · Go + WebView2 · Docker |
 | [**Favo**](https://github.com/ravelroot/Custom-Memory-Allocator) | Favo é um alocador de memória escrito do zero em C11 que substitui o malloc e o free do sistema: pede memória ao kernel com sbrk e mmap (VirtualAlloc no Windows), alinha blocos a 16 bytes, aloca por First-Fit, Next-Fit ou Best-Fit em árvore rubro-negra e funde vizinhos livres. Funciona via LD_PRELOAD, com API em FastAPI e painel web do heap ao vivo. | C11 · sbrk e mmap · CMake · LD_PRELOAD · Python 3.13 · FastAPI · WebSocket · SQLite · TypeScript · Vite · Docker |
@@ -116,7 +116,7 @@ O mesmo e-mail de ativação traz um código aleatório que pode substituir o en
 | Quero mudar... | Onde |
 | --- | --- |
 | Nome, selo de disponibilidade, cargo, apresentação, terminal e rodapé | `index.html` |
-| Versão no terminal (*Ravel OS [Version 1.39.0]*) | `index.html`, na primeira linha do `.terminal-corpo`; acompanha o número do arquivo `VERSION` |
+| Versão no terminal (*Ravel OS [Version 1.40.0]*) | `index.html`, na primeira linha do `.terminal-corpo`; acompanha o número do arquivo `VERSION` |
 | Imagem que aparece ao compartilhar o link | `assets/compartilhar.png` (1200 × 630), citada nas tags `og:image` e `twitter:image` do `index.html` |
 | Descrição que aparece ao compartilhar o link (WhatsApp, LinkedIn, Discord etc.) | `index.html`, nas tags `<meta name="description">` e `<meta property="og:description">` |
 | Tamanho geral da página (escala) | `css/estilo.css`: o zoom de 75% fica em `zoom: 0.75;` na `.pagina`, dentro do `@media (min-width: 769px)` (a dica do gráfico e o quadriculado do fundo têm os tamanhos reduzidos no mesmo bloco); o tamanho base do texto fica em `font-size: 80%;` no `html` |
@@ -128,7 +128,7 @@ O mesmo e-mail de ativação traz um código aleatório que pode substituir o en
 | Decisão de arquitetura, etiquetas e links dos PDFs de cada projeto | `js/documentacao.js`, no vetor `DOCUMENTACAO` |
 | Notas (tema, título, resumo, texto, frase da vitrine e projetos citados) | `js/notas.js`, no vetor `NOTAS` |
 | Aba Destaques (projetos, frase, números, textos, tecnologias, fotos e legendas, decisões de engenharia, arquitetura, testes e o bloco final) | `js/destaques.js`, nos vetores `DESTAQUES` e `DESTAQUES_EM_COMUM`; o `titulo` de cada destaque precisa ser igual ao de `js/projetos.js` e de `js/documentacao.js`, de onde vêm o ícone, a categoria, o repositório e os PDFs; um projeto que não está nessas abas leva esses dados no próprio destaque, em `projeto` (`categoria`, `icone` e `link`) e `documentos` (`manual` e `banco`), como o Bento faz com os PDFs, já que não está na aba Documentação. O endereço da barra da janela fica em `endereco`, e `online` é opcional |
-| Fotos da aba Destaques | `assets/destaques/`, uma pasta por projeto (`crivo/`, `grafo/`, `nexo/`, `talos/`, `bento/` e `turno/`): as telas em WebP em 16:10 (1440 × 900 ou 1600 × 1000, usadas na capa e no visualizador) e, em `mini/`, as miniaturas de 800 × 500 da galeria, todas convertidas das imagens de `docs/images/` de cada repositório. As telas de 1440 × 960 do Nexo, do Bento e do Turno foram reduzidas para 900 de altura e completadas nas laterais com a cor do fundo do próprio app, sem cortar nada |
+| Fotos da aba Destaques | `assets/destaques/`, uma pasta por projeto (`crivo/`, `grafo/`, `nexo/`, `talos/`, `bento/` e `turno/`): as telas em WebP em 16:10 (1440 × 900 ou 1600 × 1000, usadas na capa e no visualizador) e, em `mini/`, as miniaturas de 800 × 500 da galeria, todas convertidas das imagens de `docs/images/` de cada repositório (a capa escura do Crivo é a mesma tela do Estúdio de jogo da capa clara, capturada no tema escuro). As telas de 1440 × 960 do Nexo, do Bento e do Turno foram reduzidas para 900 de altura e completadas nas laterais com a cor do fundo do próprio app, sem cortar nada |
 | Luz que segue o mouse nos cartões de projeto e de nota, brilho do ícone grande e fundo escurecido atrás do leitor | `css/estilo.css`, nas variáveis `--luz`, `--brilho-icone` e `--fundo-leitor` (uma vez em cada tema) |
 | Miniaturas dos diagramas | `assets/documentacao/` (PNG branco com fundo transparente, 1100 × 420) |
 | Cores, fontes, espaçamentos e animações | `css/estilo.css` (variáveis em `:root`) |
